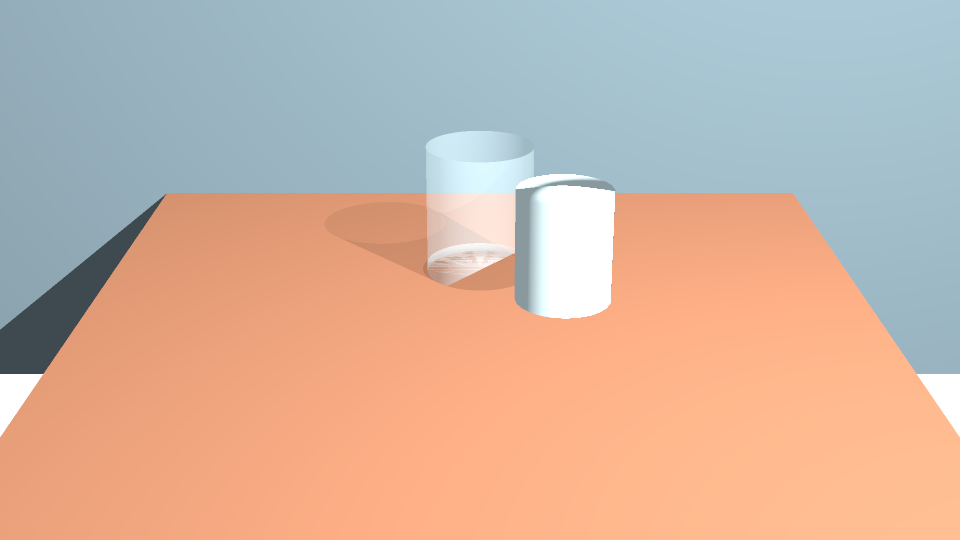
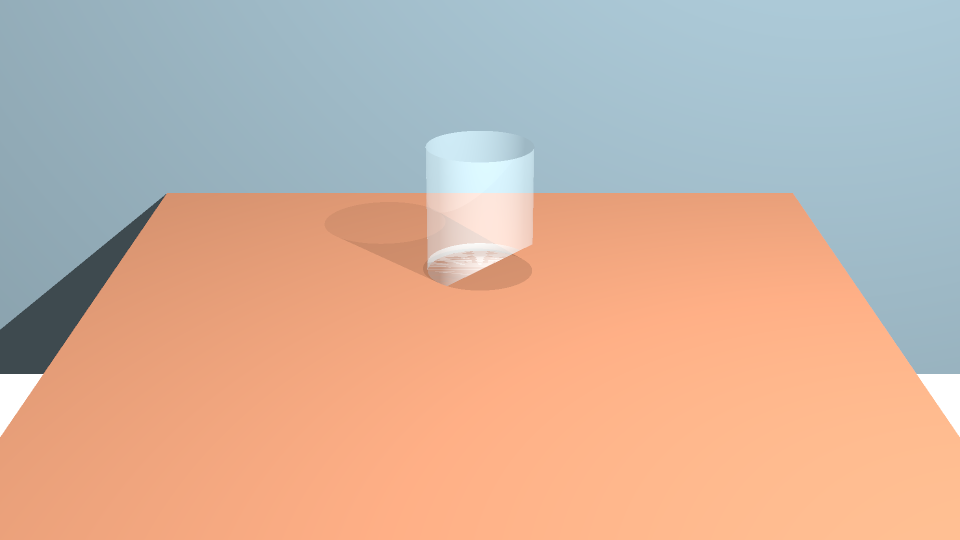
examples: align Hot pour holdout with plate glass

Changed region(s): [[0.5312, 0.2963, 0.6562, 0.5926]]

diff --git a/examples/hot_pour_shot/make_shot.py b/examples/hot_pour_shot/make_shot.py
@@ -19,6 +19,8 @@ def build_document(render_size=(960, 540), cells=64, render_backend="gpu"):
     commands = []
     for item in ops:
         op = dict(item)
+        if op.get("op") == "connect" and op.get("id") == "$new:scene" and op.get("input") == "object3":
+            continue  # the camera-matched plate supplies the glass; the live scene keeps only its holdout
         if op.get("op") == "create" and op.get("id") == "$new:table_top":
             op["params"].update(shadow_catcher="on", sx=1.7, sz=2.2, red=0.28, green=0.17, blue=0.10)
         if op.get("op") == "create" and op.get("id") == "$new:key_light":
@@ -37,7 +39,7 @@ def build_document(render_size=(960, 540), cells=64, render_backend="gpu"):
     commands.extend((
         {"op": "create", "id": "front_cup", "type": "Cylinder3D", "params": {
             "cyl_radius": 0.12, "cyl_height": 0.30, "cyl_caps": "closed", "tx": 0.0, "ty": 0.15,
-            "tz": 0.20, "red": 0.8, "green": 0.9, "blue": 0.95, "alpha": 1.0, "holdout": "on",
+            "tz": 0.0, "red": 0.8, "green": 0.9, "blue": 0.95, "alpha": 1.0, "holdout": "on",
             "cast_shadows": "off"}},
         {"op": "create", "id": "backdrop", "type": "Card3D", "params": {
             "card_width": 4.0, "card_height": 2.5, "ty": 0.7, "tz": -0.55,

diff --git a/tests/test_hot_pour_shot.py b/tests/test_hot_pour_shot.py
@@ -20,6 +20,9 @@ class HotPourShotTests(unittest.TestCase):
         self.assertEqual(nodes["liquid"]["params"]["max_size"], 64)
         self.assertEqual(cup["holdout"], "on")
         self.assertAlmostEqual(cup["tx"], 0.0)
+        self.assertAlmostEqual(cup["tz"], 0.0)
+        self.assertIsNone(nodes["scene"]["inputs"]["object3"],
+                          "the plate supplies the glass, so the transparent render must not draw a second one")
         self.assertGreater(source["src_center_y"], cup["ty"] + cup["cyl_height"] / 2)
         self.assertEqual(nodes["surface"]["params"]["material"], "liquid")
         source_x = [point["value"] for point in doc["animation"]["curves"]["spout"]["tx"]["keys"]]

diff --git a/examples/hot_pour_shot/make_plate.py b/examples/hot_pour_shot/make_plate.py
@@ -13,8 +13,9 @@ def main():
     scene = doc["nodes"]["scene"]
     for slot in ("object0", "object1", "object2"):
         scene["inputs"].pop(slot, None)  # liquid, whitewater, steam
+    scene["inputs"]["object3"] = "glass_view"  # the plate supplies the one camera-matched glass
+    scene["inputs"].pop("object6", None)       # holdout geometry belongs to the transparent render only
     doc["nodes"]["table_top"]["params"]["shadow_catcher"] = "off"
-    doc["nodes"]["front_cup"]["params"]["holdout"] = "off"
     render = doc["nodes"]["render"]["params"]
     render.update(render_backend="cpu", render_mode="raster", samples=2)
     pixels = Evaluator().evaluate_raster(doc, "render", frame=1).pixels
